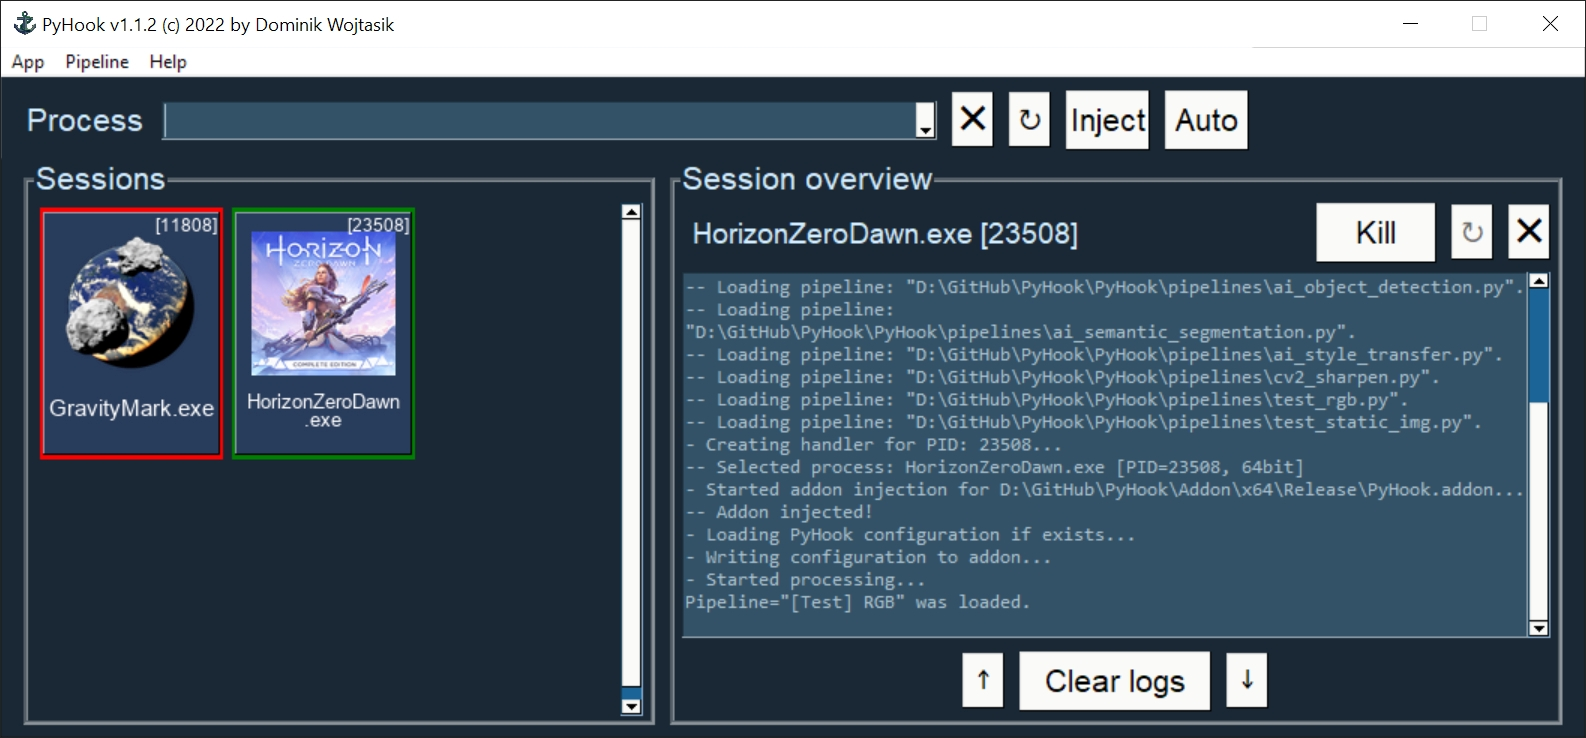
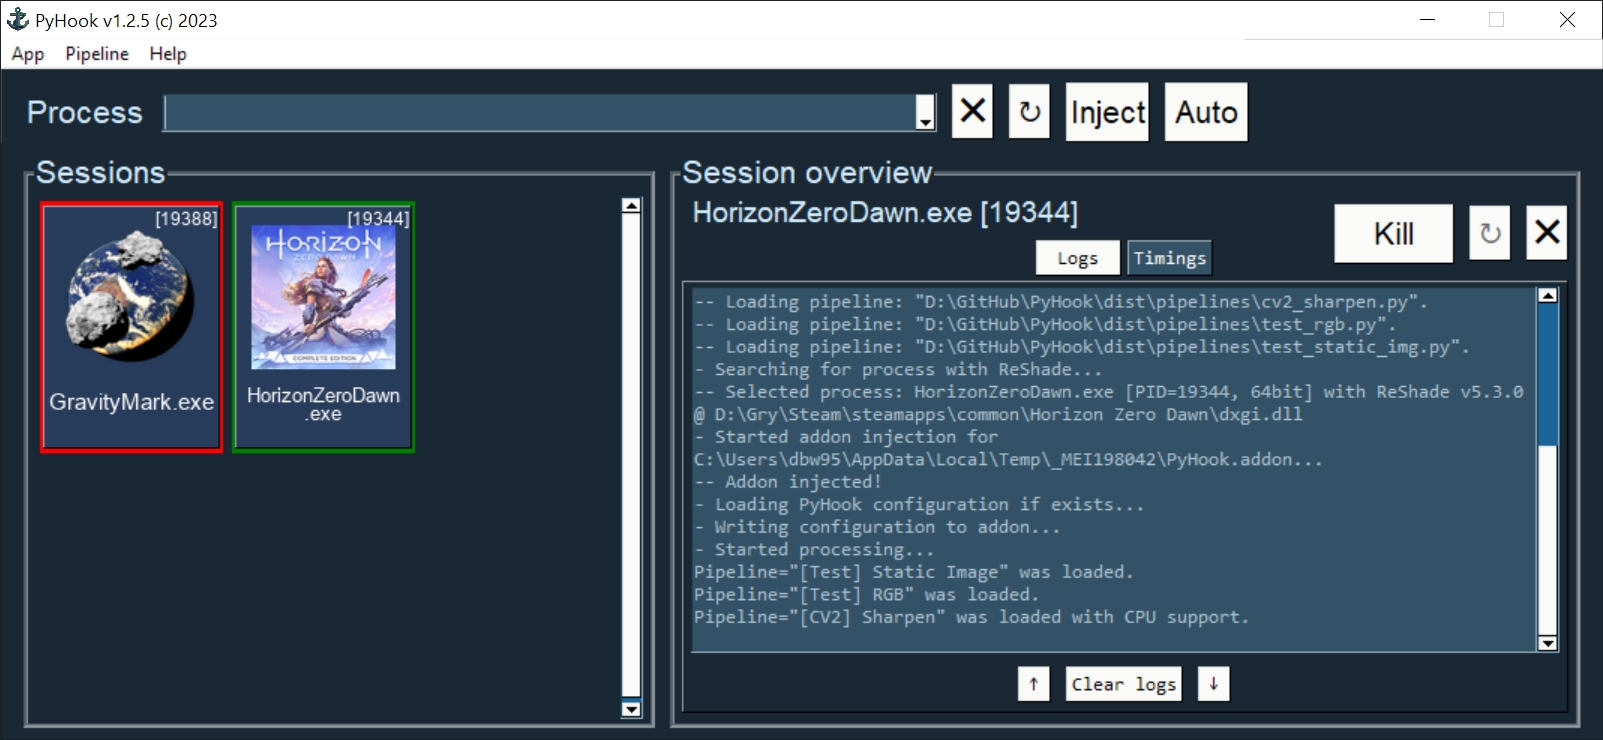
[O] Version bump from 1.1.2 to 1.2.5
-bumped version
-updated copyright year
-updated layout for session name
-fixed settings save
-fixed OS architecture test
-renamed gui.keys to gui.ui_keys
-updated gui screenshots
-updated readme

Changed region(s): [[0.0, 0.0, 1.0, 0.9973], [0.9578, 0.0312, 0.9887, 0.0623]]

diff --git a/PyHook/gui/app.py b/PyHook/gui/app.py
@@ -20,10 +20,10 @@ import PySimpleGUI as sg
 from _version import __version__
 from session import ProcessInfo, Session, get_process_list
 from gui.image import format_raw_data, get_as_buffer, get_button_image_template, get_img
-from gui.keys import SGKeys, TKKeys
 from gui.pipeline_actions import install_requirements, verify_download
 from gui.settings import display_settings_window, get_settings, load_settings
 from gui.style import *  # pylint: disable=wildcard-import, unused-wildcard-import
+from gui.ui_keys import SGKeys, TKKeys
 from gui.update import try_update
 from gui.utils import EventCallback, show_popup, show_popup_text, with_border
 from keys import SettingsKeys, TimingsKeys
@@ -397,34 +397,44 @@ _APP_LAYOUT = [
             "Session overview",
             [
                 [
-                    sg.Text(
-                        "Select session...",
-                        font=FONT_MID_DEFAULT,
-                        pad=(10, 10),
-                        justification="left",
-                        key=SGKeys.SESSION_TITLE,
+                    sg.Column(
+                        [
+                            [
+                                sg.Text(
+                                    "Select session...",
+                                    font=FONT_MID_DEFAULT,
+                                    pad=((10, 0), (0, 0)),
+                                    justification="left",
+                                    key=SGKeys.SESSION_TITLE,
+                                )
+                            ],
+                            [sg.VPush()],
+                            [
+                                sg.Button(
+                                    "Logs",
+                                    size=(7, 1),
+                                    pad=((241, 2), (0, 0)),
+                                    font=FONT_CONSOLE,
+                                    button_color=SESSION_TABS_BUTTON_SELECTED_COLORS,
+                                    key=SGKeys.SESSION_TAB_LOGS_BUTTON,
+                                    tooltip="Opens session logs tab",
+                                    visible=True,
+                                ),
+                                sg.Button(
+                                    "Timings",
+                                    size=(7, 1),
+                                    pad=((2, 0), (0, 0)),
+                                    font=FONT_CONSOLE,
+                                    button_color=SESSION_TABS_BUTTON_COLORS,
+                                    key=SGKeys.SESSION_TAB_TIMINGS_BUTTON,
+                                    tooltip="Opens session timings tab",
+                                    visible=True,
+                                ),
+                            ],
+                        ],
+                        pad=(0, 0),
                     ),
                     sg.Push(),
-                    sg.Button(
-                        "Logs",
-                        size=(7, 1),
-                        pad=((0, 2), (30, 0)),
-                        font=FONT_CONSOLE,
-                        button_color=SESSION_TABS_BUTTON_SELECTED_COLORS,
-                        key=SGKeys.SESSION_TAB_LOGS_BUTTON,
-                        tooltip="Opens session logs tab",
-                        visible=True,
-                    ),
-                    sg.Button(
-                        "Timings",
-                        size=(7, 1),
-                        pad=((2, 77), (30, 0)),
-                        font=FONT_CONSOLE,
-                        button_color=SESSION_TABS_BUTTON_COLORS,
-                        key=SGKeys.SESSION_TAB_TIMINGS_BUTTON,
-                        tooltip="Opens session timings tab",
-                        visible=True,
-                    ),
                     sg.Button(
                         "Kill",
                         size=(6, 1),

diff --git a/PyHook/win/utils.py b/PyHook/win/utils.py
@@ -6,7 +6,7 @@ Utils for Windows OS
 :license: MIT, see LICENSE for more details.
 """
 
-from platform import architecture
+from platform import machine
 
 from psutil import pid_exists
 
@@ -16,6 +16,8 @@ from win.api import is_wow_process_64_bit
 _ARCH_32_BIT = "32bit"
 # String for 64-bit architecture.
 _ARCH_64_BIT = "64bit"
+# 64-bit machine string.
+_MACHINE_64_BIT = "AMD64"
 
 
 def to_arch_string(is_64_bit: bool) -> str:
@@ -36,7 +38,7 @@ def is_32_bit_os() -> bool:
     Returns:
         bool: True if OS is 32 bit
     """
-    return architecture()[0] == _ARCH_32_BIT
+    return machine() != _MACHINE_64_BIT
 
 
 def is_process_64_bit(pid: int) -> bool:

diff --git a/PyHook/gui/settings.py b/PyHook/gui/settings.py
@@ -17,8 +17,8 @@ from typing import Any, Dict, List
 
 import PySimpleGUI as sg
 
-from gui.keys import SGKeys
 from gui.style import FONT_SMALL_DEFAULT
+from gui.ui_keys import SGKeys
 from gui.utils import center_in_parent, show_popup_text
 from keys import SettingsKeys
 from win.api import CREATE_NO_WINDOW
@@ -105,7 +105,7 @@ def load_settings(parent: sg.Window = None) -> None:
                         continue
                     _SETTINGS[key] = list(value)
     else:
-        save_settings(parent)
+        save_settings(parent=parent)
 
 
 def _get_python_settings_layout(settings: Dict[str, Any]) -> List[List[sg.Column]]:

diff --git a/PyHook/gui/pipeline_actions.py b/PyHook/gui/pipeline_actions.py
@@ -14,9 +14,9 @@ import PySimpleGUI as sg
 
 from keys import SettingsKeys
 from pipeline import PipelinesDirNotFoundError, get_pipeline_directory, get_pipeline_file_list
-from gui.keys import SGKeys
 from gui.settings import get_settings, save_settings
 from gui.style import FONT_SMALL_DEFAULT
+from gui.ui_keys import SGKeys
 from gui.utils import center_in_parent, show_popup_exception, show_popup_text
 from utils.downloader import download_file
 from utils.threading import BackgroundTask

diff --git a/PyHook/gui/update.py b/PyHook/gui/update.py
@@ -16,9 +16,9 @@ import PySimpleGUI as sg
 import requests
 
 from _version import __version__
-from gui.keys import SGKeys
 from gui.settings import get_settings
 from gui.style import COLOR_TEXT_URL, FONT_SMALL_DEFAULT
+from gui.ui_keys import SGKeys
 from gui.utils import EventCallback, center_in_parent, show_popup, show_popup_text
 from keys import SettingsKeys
 from pipeline import get_pipeline_directory

diff --git a/Addon/pyhook_main.cpp b/Addon/pyhook_main.cpp
@@ -13,7 +13,7 @@
 #include <sstream>
 
  // Export special variables for ReShade addon.
-extern "C" __declspec(dllexport) const char* NAME = "PyHook"; //v1.1.2
+extern "C" __declspec(dllexport) const char* NAME = "PyHook"; //v1.2.5
 extern "C" __declspec(dllexport) const char* DESCRIPTION = "Passes processed back buffer to Python pipeline.";
 
 // ReShade version

diff --git a/PyHook/gui/ui_keys.py b/PyHook/gui/ui_keys.py
@@ -1,6 +1,6 @@
 """
-gui.keys for PyHook
-~~~~~~~~~~~~~~~~~~~~~~~
+gui.ui_keys for PyHook
+~~~~~~~~~~~~~~~~~~~~~~~~~
 Contains UI keys enums
 :copyright: (c) 2023 by Dominik Wojtasik.
 :license: MIT, see LICENSE for more details.

diff --git a/PyHook/gui/utils.py b/PyHook/gui/utils.py
@@ -10,8 +10,8 @@ from typing import Callable, Dict, List
 
 import PySimpleGUI as sg
 
-from gui.keys import SGKeys
 from gui.style import FONT_CONSOLE, FONT_SMALL_DEFAULT
+from gui.ui_keys import SGKeys
 
 
 class EventCallback:

diff --git a/PyHook/_version.py b/PyHook/_version.py
@@ -7,4 +7,4 @@ Stores version string for PyHook.
 """
 
 # PyHook version.
-__version__ = "1.1.2"
+__version__ = "1.2.5"

diff --git a/README.rst b/README.rst
@@ -10,7 +10,7 @@ PyHook consists of two elements:
 - | Python code that finds process with ReShade loaded, injects addon into it
   | and allows to process frames in code via dynamic pipelines.
 - | C++ addon DLL written using ReShade API that exposes back buffer via shared memory
-  | and allows to configure dynamic pipelines in settings UI.
+  | and allows to configure dynamic pipelines in ReShade Addon UI.
 
 .. contents:: **Table of Contents**
 
@@ -28,10 +28,10 @@ Features
 - Frame processing in Python via ``numpy`` array
 - JSON file with pipelines settings
 - Local Python environment usage in pipeline code
-- Automatic update [DEV]
+- Automatic update
 - Automatic pipeline files download
-- Automatic requirements installation [DEV]
-- Session timings for each pipeline processing [DEV]
+- Automatic requirements installation
+- Session timings for each pipeline processing
 
 Graphics API support
 ====================
@@ -370,7 +370,13 @@ GUI consists of few elements:
 - Menu bar, where user can change app settings, verify pipeline files and show information about app.
 - Injection bar, where user can find given process automatically or by search bar using process name or id.
 - Session list, where user can see all active/dead sessions. Each session have icon (if possible to get from .exe file by Windows API), executable name and process id. Active sessions have green border, dead are using red color.
-- Session overview, where user can see live logs and timings from given session, kill it or restart (if was stopped by some reason).
+- Session overview, where user can see live logs and timings (on screenshot below) from given session, kill it or restart (if it was stopped by any reason).
+
+.. raw:: html
+
+   <p align="center">
+      <img src="https://raw.githubusercontent.com/dwojtasik/PyHook/main/docs/images/timings.jpg" alt="Go to /docs/images/timings.jpg">
+   </p>
 
 PyHook addon
 ------------
@@ -439,11 +445,11 @@ You can download selected PyHook archives from `Releases <https://github.com/dwo
 
 1. Download and unpack zip catalog with PyHook executable and pipelines. Releases up to 1.1.2 contains also ``*.addon`` file.
 2. | Prepare Python local environment (read more in `Virtual environment <#virtual-environment>`_) and download pipelines files if needed.
-   | Pipelines has own directories with ``download.txt`` file that has list of files to download.
+   | Pipelines has own directories with ``download.txt`` file that has list of files to download. Files can be also downloaded from PyHook app menu.
 3. Start game with `ReShade <https://reshade.me/>`_ installed.
 4. Start PyHook.exe.
 
-For custom pipelines (e.g. AI ones) install requirements and setup ENV variables that points to Python3 binary in required version.
+For custom pipelines (e.g. AI ones) install requirements (manually or from PyHook app menu) and setup ENV variables or settings that points to Python3 binary in required version.
 
 Available ENV variables (required up to 1.1.2, can be set in settings in newer versions):
 
@@ -619,8 +625,9 @@ Breaking changes
 History
 =======
 
-NEXT / DEV
-----------
+1.2.5 (2023-01-07)
+------------------
+- Fixed OS architecture test.
 - Improved popup windows responsiveness.
 - Added timings for pipeline processing.
 - Added process list filtration by PyHook architecture.
